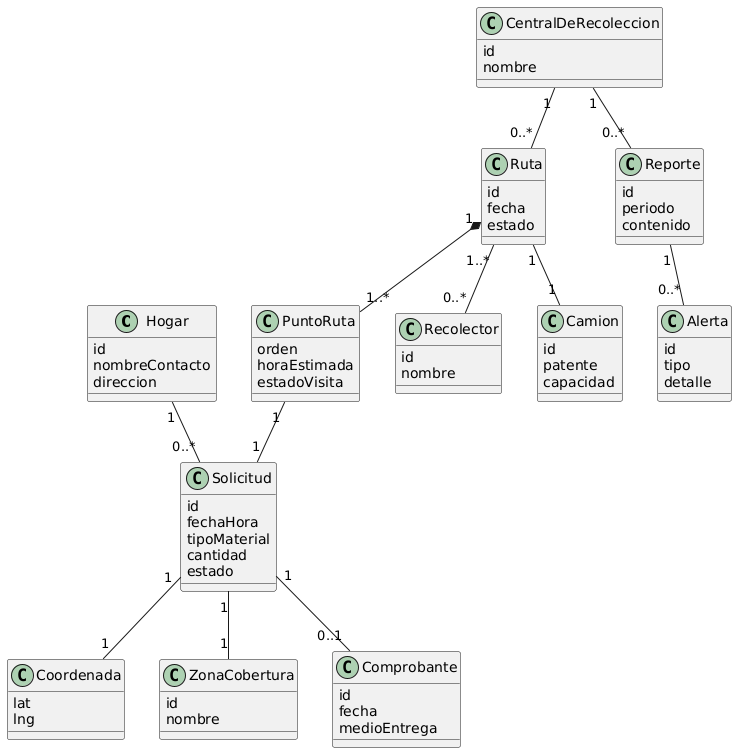
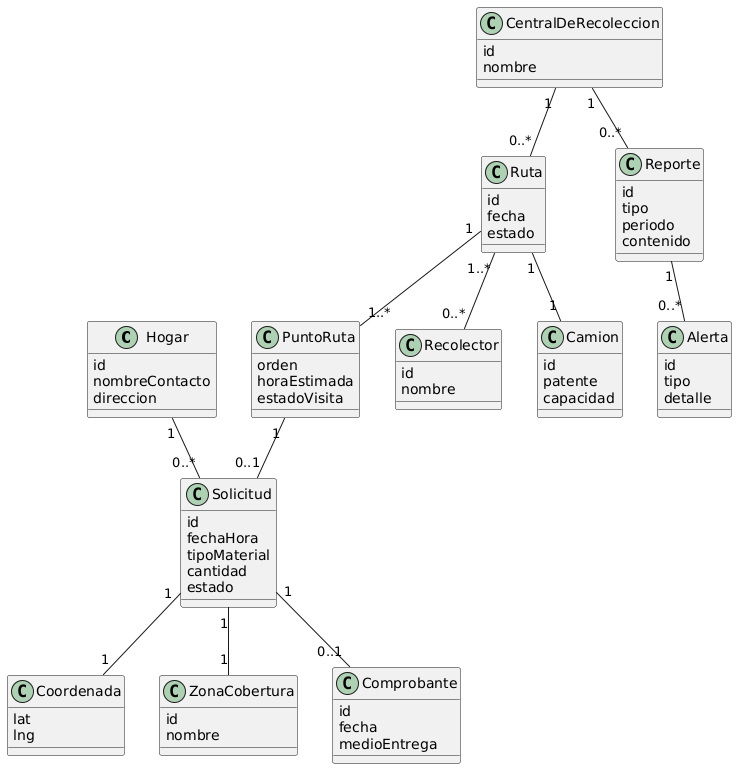
Actualizar EsqConceptual, DSS y trazabilidad

diff --git a/05_ayudantia/Trazabilidad.md b/05_ayudantia/Trazabilidad.md
@@ -16,6 +16,6 @@ Con esos datos, la solicitud se guarda con **estado = “pendiente”** y se **a
 - **Solicitud 1—1** **ZonaCobertura** (cada solicitud se agrupa a una única zona de cobertura).
 - La **CentralDeRecoleccion** agrupa solicitudes en **Rutas**, modelado con:
   - **Ruta 1—1..*** **PuntoRuta** (cada ruta tiene 1 o más puntos donde se recogerá el material).
-  - **PuntoRuta 1—1** **Solicitud** (cada PuntoRuta corresponde a una solicitud; con ello, **cada solicitud queda asociada a una única ruta** a través de su único PuntoRuta).
+  - **PuntoRuta 1—0..1** **Solicitud** (cada PuntoRuta corresponde a una solicitud; **una solicitud puede estar sin ruta** hasta que se planifique).
 - **Ruta 1..* — 0..*** **Recolector** (una ruta tiene 1 o más recolectores y un recolector puede estar en 0 o muchas rutas, dependiendo del día).
 - Al finalizar el retiro, se emite **Comprobante** vinculado a la **Solicitud** (**Solicitud 1—0..1 Comprobante**).
